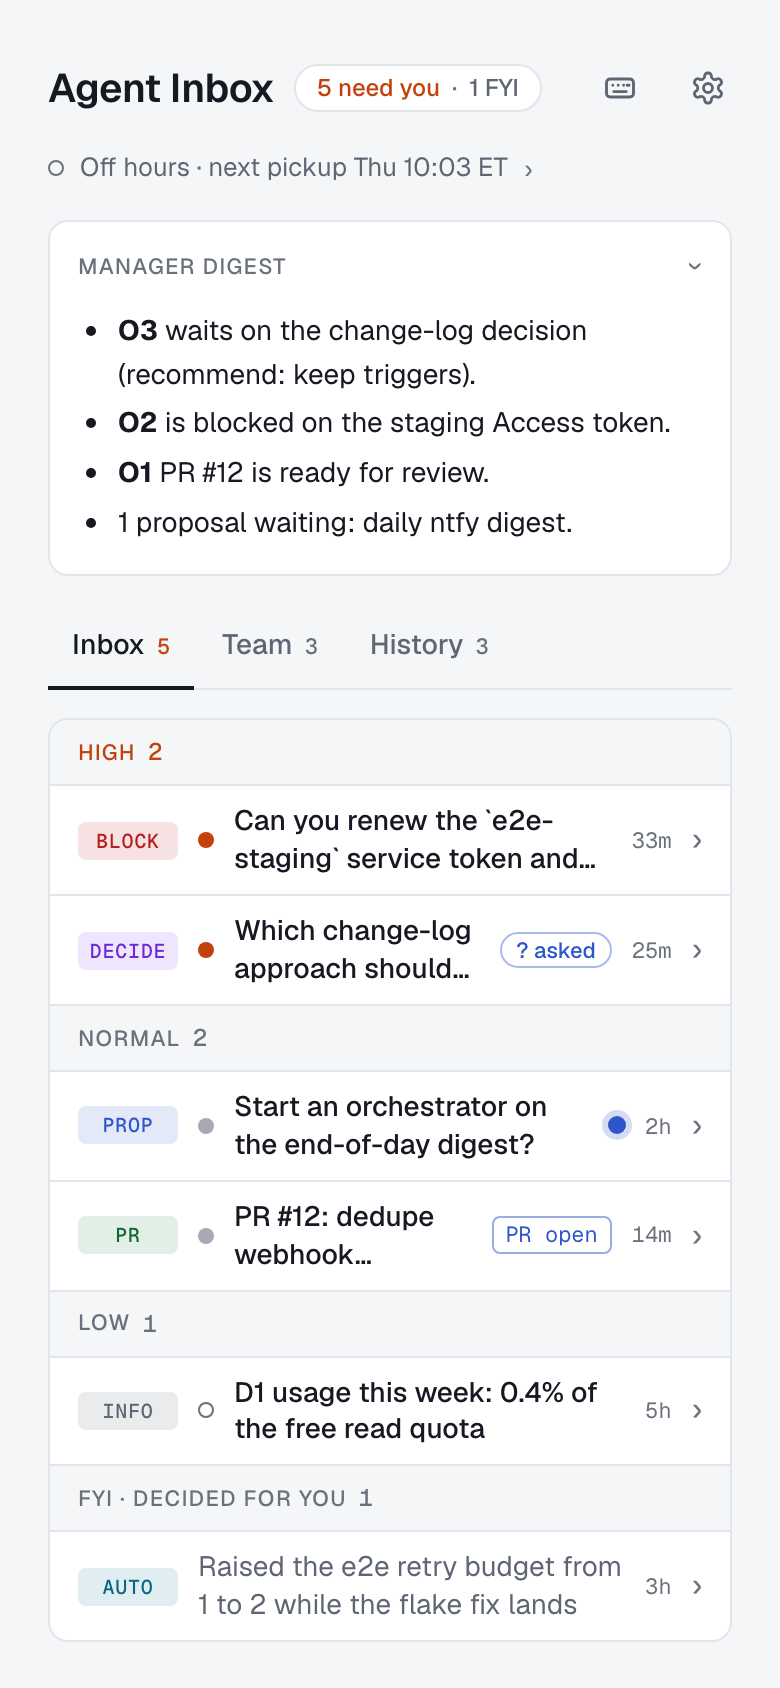
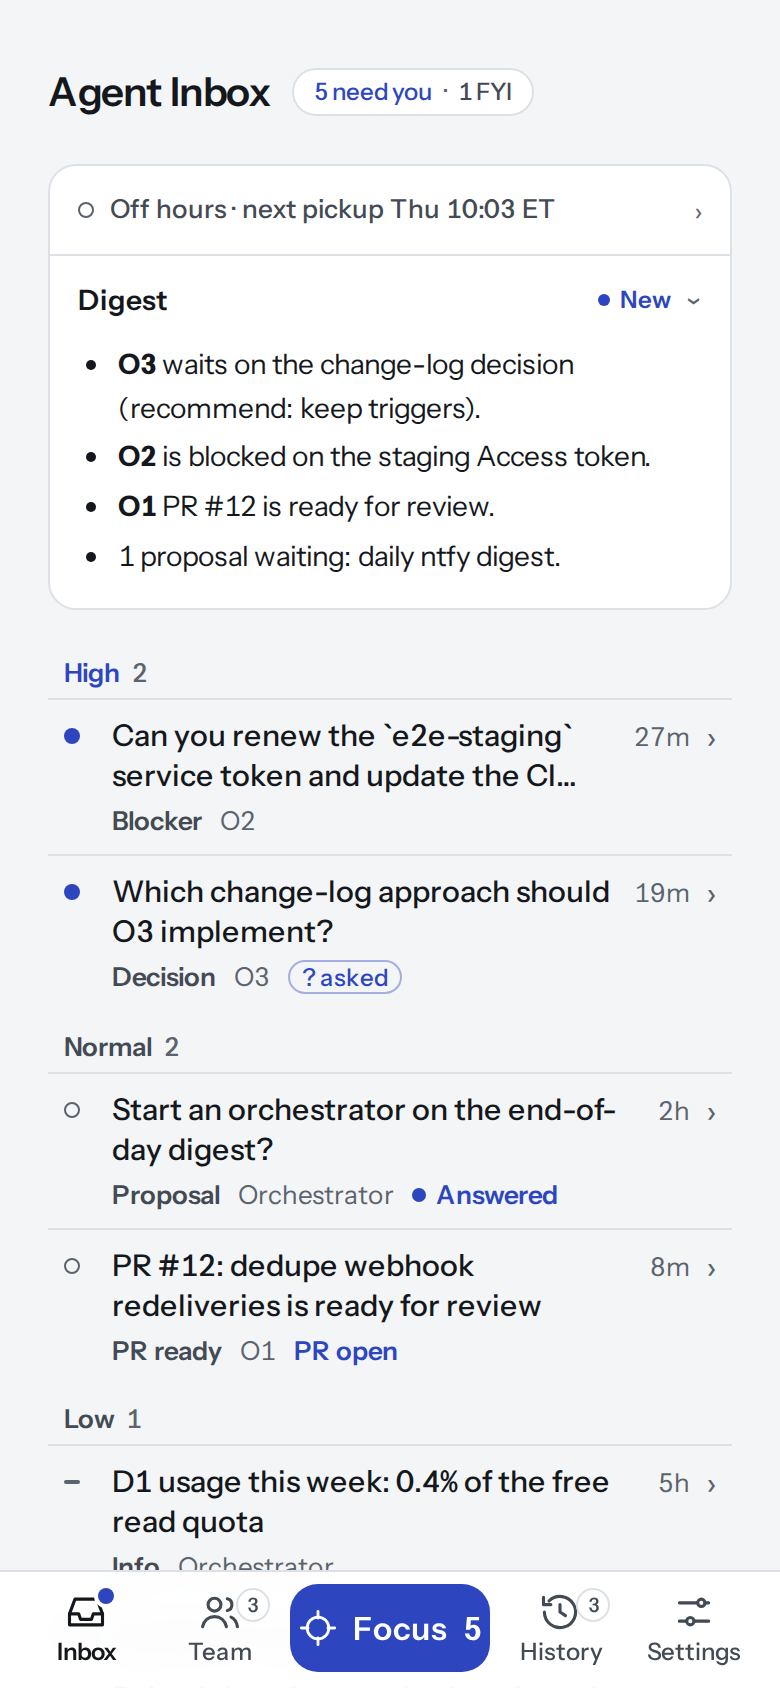
e2e: regenerate the README screenshots with npm run screenshots
Add e2e/screenshots.spec.ts, skipped unless SCREENSHOTS=1, which takes
docs/screenshots/*.png from the seed data at the sizes the README uses:
phones at 390x844 and laptops at 1280x900, both 2x, and Reviews at
1280x860, 1x. Regenerate all seven from the current UI. The README called
the Reviews shot dark; it is light, so fix the caption.

diff --git a/e2e/screenshots.spec.ts b/e2e/screenshots.spec.ts
@@ -1,0 +1,107 @@
+// Regenerates the README's screenshots (docs/screenshots/*.png) from the seed data. Skipped unless SCREENSHOTS=1:
+// `npm run screenshots`. Sizes are the README's: phones at 390×844, laptops at 1280×900, both at 2x, and Reviews at
+// 1280×860, 1x. Look at every image before committing it.
+import { resolve } from "node:path";
+import type { Page } from "@playwright/test";
+import { SEED, expect, openItem, openQueue, test } from "./fixtures.ts";
+import { ROOT } from "./support/data.ts";
+import { postAsk, seedReviews } from "./support/reviews.ts";
+
+test.skip(process.env.SCREENSHOTS !== "1","set SCREENSHOTS=1 (npm run screenshots) to regenerate docs/screenshots");
+
+const PHONE = { viewport: { width: 390, height: 844 }, deviceScaleFactor: 2, isMobile: true, hasTouch: true };
+const LAPTOP = { viewport: { width: 1280, height: 900 }, deviceScaleFactor: 2 };
+
+// Fonts loaded, nothing moving, no caret: then the shot.
+async function shot(page: Page, name: string): Promise<void> {
+  await page.evaluate(() => document.fonts.ready);
+  await page.screenshot({ path: resolve(ROOT, "docs/screenshots", name), animations: "disabled", caret: "hide" });
+}
+
+// The saved theme (src/state.ts), applied by index.html's inline script before first paint.
+async function useTheme(page: Page, theme: "light" | "dark"): Promise<void> {
+  await page.addInitScript((t) => { try { localStorage.setItem("agent-inbox-theme", t); } catch { /* no storage */ } }, theme);
+}
+
+test.describe("phone", () => {
+  test.use(PHONE);
+
+  test("1-inbox", async ({ page }) => {
+    await useTheme(page, "light");
+    await openQueue(page);
+    await shot(page, "1-inbox.png");
+  });
+
+  test("2-item", async ({ page }) => {
+    await useTheme(page, "light");
+    await openQueue(page);
+    await openItem(page, SEED.changelog);
+    await shot(page, "2-item.png");
+  });
+
+  test("5-orch-dark", async ({ page }) => {
+    await useTheme(page, "dark");
+    await openQueue(page);
+    await page.goto("/#orch.O3");
+    await expect(page.locator('#detail h2[tabindex="-1"]')).toBeVisible();
+    await shot(page, "5-orch-dark.png");
+  });
+
+  test("6-settings-dark", async ({ page }) => {
+    // Headless Chromium reports notifications as denied ("Blocked"); a browser that hasn't been asked yet says "default".
+    await page.addInitScript(() => { try { Object.defineProperty(Notification, "permission", { get: () => "default" }); } catch { /* none */ } });
+    // The tokens global setup mints for the review-bot routines are the suite's, not the seed's: leave them out.
+    await page.route("**/api/tokens", async (route) => {
+      if (route.request().method() !== "GET") return route.continue();
+      const r = await route.fetch(), body = (await r.json()) as { tokens: { name: string }[] };
+      await route.fulfill({ response: r, json: { ...body, tokens: body.tokens.filter((t) => !t.name.startsWith("orch-review-bot")) } });
+    });
+    await useTheme(page, "dark");
+    await openQueue(page);
+    await page.goto("/#settings");
+    await expect(page.getByRole("heading", { level: 2, name: "Settings" })).toBeVisible();
+    // Every section loaded (tokens, people, this device, the account) before the page is measured.
+    await expect(page.getByRole("button", { name: "Revoke" })).toHaveCount(1);
+    await expect(page.getByText("Nobody saved yet.")).toBeVisible();
+    await expect(page.getByRole("button", { name: "Enable notifications on this device" })).toBeVisible();
+    await expect(page.getByText("Signed in as")).toBeVisible();
+    await page.evaluate(() => document.fonts.ready);
+    // The whole page in one viewport, so the fixed bottom bar sits at the end rather than across the middle.
+    const height = await page.evaluate(() => document.documentElement.scrollHeight);
+    await page.setViewportSize({ width: PHONE.viewport.width, height });
+    await shot(page, "6-settings-dark.png");
+  });
+});
+
+test.describe("laptop", () => {
+  test.use(LAPTOP);
+
+  test("3-item-desktop", async ({ page }) => {
+    await useTheme(page, "light");
+    await openItem(page, SEED.changelog);
+    await shot(page, "3-item-desktop.png");
+  });
+
+  test("4-shortcuts", async ({ page }) => {
+    await useTheme(page, "light");
+    await openItem(page, SEED.changelog);
+    await page.keyboard.press("?");
+    await expect(page.getByRole("dialog", { name: "Keyboard shortcuts" })).toBeVisible();
+    await shot(page, "4-shortcuts.png");
+  });
+});
+
+test.describe("reviews", () => {
+  test.use({ viewport: { width: 1280, height: 860 }, deviceScaleFactor: 1 });
+
+  test("7-reviews-desktop", async ({ page, request }) => {
+    await useTheme(page, "light");
+    await seedReviews();
+    await postAsk(request, "review-bot-812-product", 812);
+    await page.goto("/#reviews");
+    await page.getByRole("radio", { name: /^PRs/ }).click();
+    await page.locator('#view-reviews a.row[href="#pr.review-bot.812"]').click();
+    await expect(page.getByRole("heading", { level: 2, name: "Return 413 for oversized uploads instead of a 500" })).toBeVisible();
+    await shot(page, "7-reviews-desktop.png");
+  });
+});

diff --git a/CONTRIBUTING.md b/CONTRIBUTING.md
@@ -49,6 +49,8 @@ npm run e2e:ui                    # Playwright's UI mode: pick tests, watch them
 npx playwright test --headed      # watch it in a real browser window
 ```
 
+The README's screenshots (`docs/screenshots/*.png`) come from the same seed data. After a visible UI change, regenerate them with `npm run screenshots` (`e2e/screenshots.spec.ts`, skipped unless `SCREENSHOTS=1`), and look at each image before you commit it.
+
 How it runs (`e2e/global-setup.ts`): build the UI (skip with `E2E_SKIP_BUILD=1` when `dist/` is current), recreate a local D1 in `.wrangler/e2e` (migrations, plus an orchestrator token minted with `scripts/create-token.mjs`), then start `wrangler dev` on free ports with `e2e/dev.env` (`DEV_NO_ACCESS=1`) in place of your `.dev.vars`. Your own `.wrangler/state`, `.dev.vars` and a `wrangler dev` you already have running are left alone. The server stops when the run ends; its output is in `.wrangler/e2e/wrangler.log`.
 
 Every test starts from the seed data (`scripts/fixtures/sample-export.json`): the `seeded` fixture in `e2e/fixtures.ts` empties the docs table and reseeds it before each test, so tests don't depend on order. They share one server and database, so they run one at a time.

diff --git a/README.md b/README.md
@@ -11,7 +11,7 @@ Agents post items with the `agent-inbox` CLI. You get a notification, read a bri
   <img src="docs/screenshots/2-item.png" alt="A decision item: the question, options with tradeoffs, and a recommendation" width="320">
 </p>
 
-On a laptop: [an item page](docs/screenshots/3-item-desktop.png) and [the keyboard shortcuts](docs/screenshots/4-shortcuts.png). Dark: [a manager briefing](docs/screenshots/5-orch-dark.png), [Settings](docs/screenshots/6-settings-dark.png) and [Reviews](docs/screenshots/7-reviews-desktop.png).
+On a laptop: [an item page](docs/screenshots/3-item-desktop.png), [the keyboard shortcuts](docs/screenshots/4-shortcuts.png) and [Reviews](docs/screenshots/7-reviews-desktop.png). Dark: [a manager briefing](docs/screenshots/5-orch-dark.png) and [Settings](docs/screenshots/6-settings-dark.png).
 
 **Status:** early but in daily use. One deployment is one inbox (single-tenant): everyone Cloudflare Access lets in shares it, with the role an admin gives them. The CLI and HTTP API stay backward compatible; the UI changes freely. There is no hosted version. Source-available under [FSL-1.1-MIT](#license).
 
